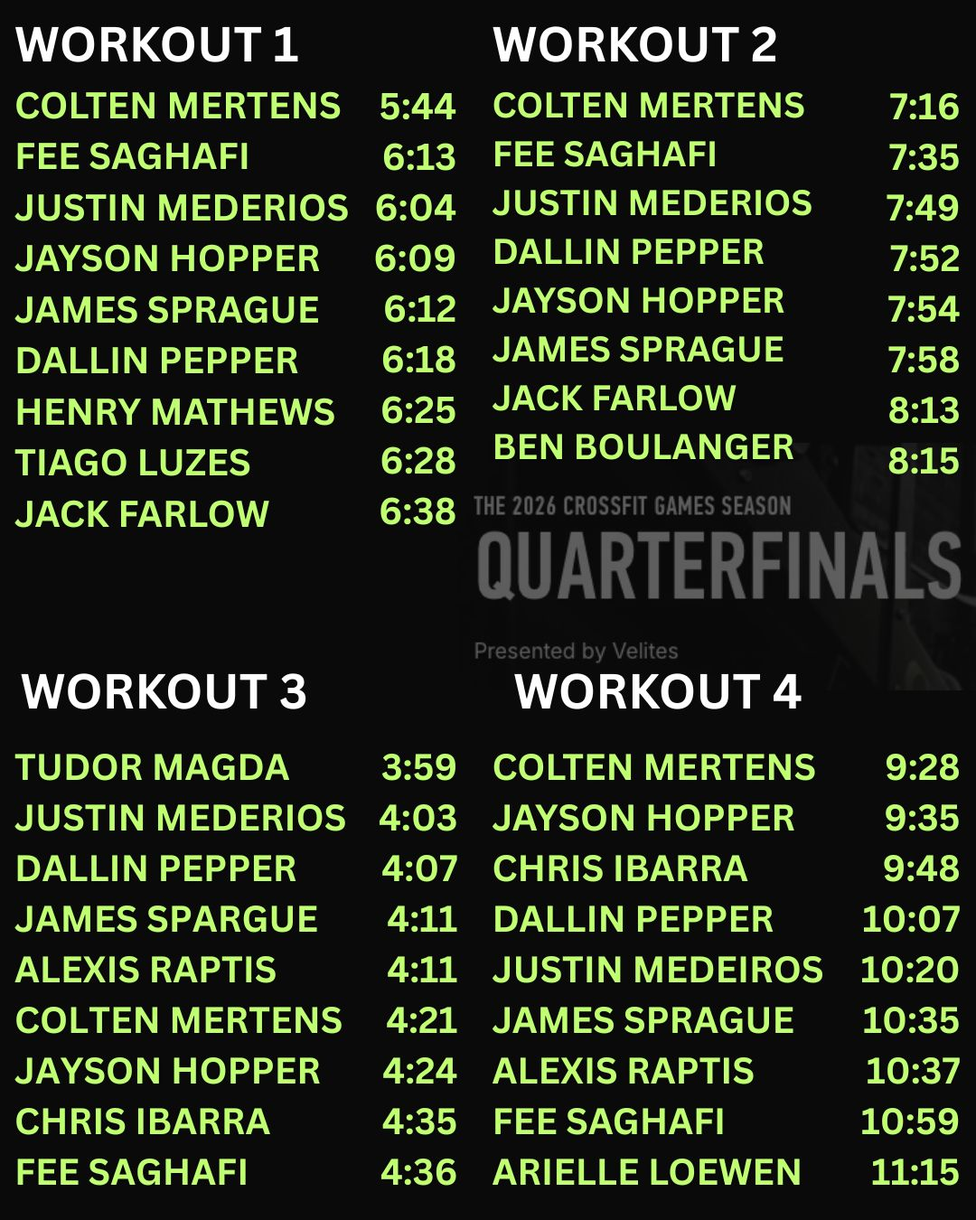
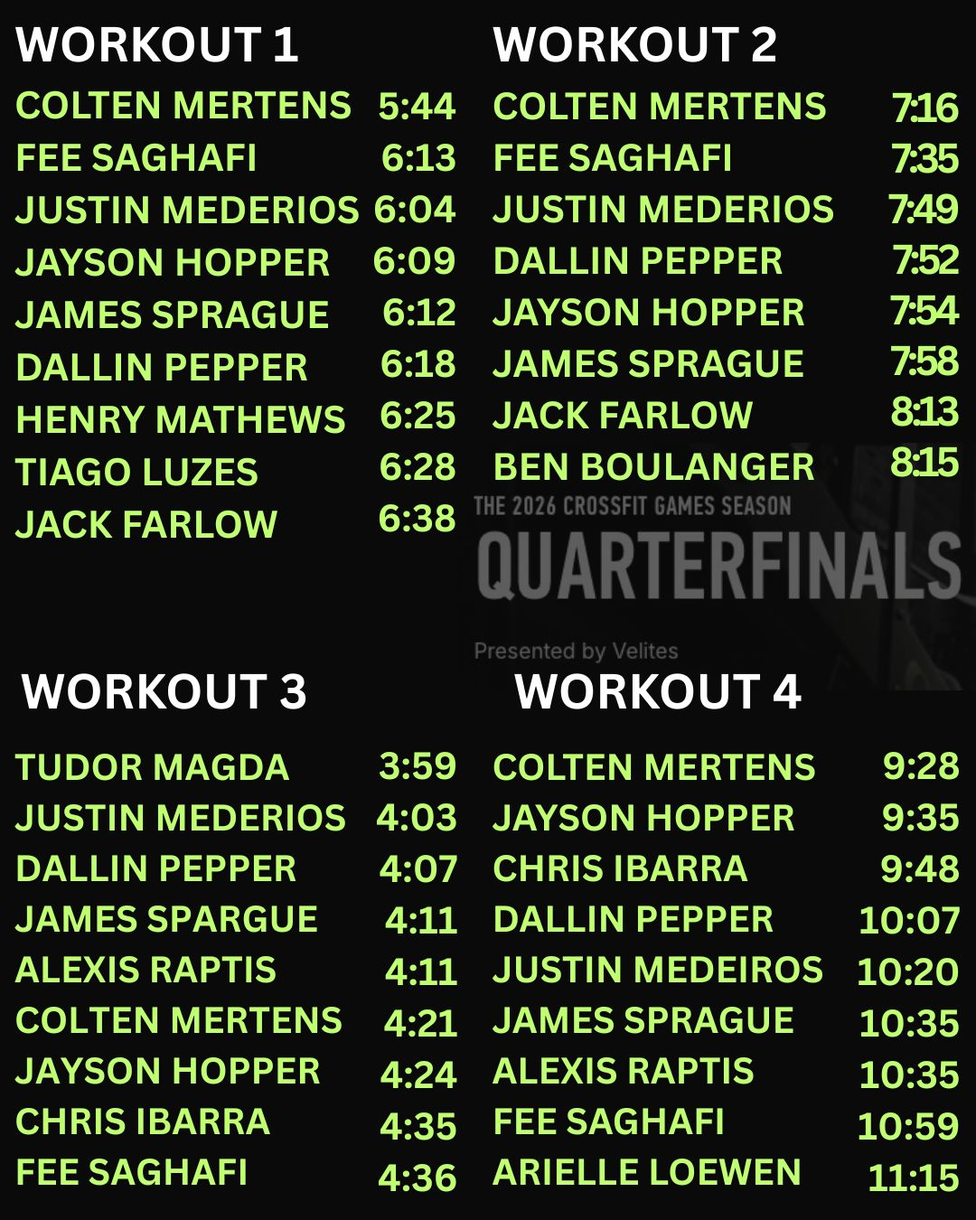
Add files via upload

diff --git a/assets/games.html b/assets/games.html
@@ -1,0 +1,339 @@
+<!-- Multi-page CF Network News -->
+<!DOCTYPE html>
+<html lang="en">
+<head>
+<meta charset="UTF-8">
+<meta name="viewport" content="width=device-width, initial-scale=1.0">
+<title>2026 CrossFit Games — CF Network News</title>
+<meta name="description" content="Everything about the 2026 CrossFit Games at SAP Center in San Jose — tickets, roadmap, and more.">
+<meta property="og:title" content="2026 Games — CF Network News">
+<meta property="og:description" content="Breaking CrossFit news, athlete gossip, Rogue Fitness updates, and competition schedules — all in one place.">
+<link rel="stylesheet" href="./base.css">
+<link rel="stylesheet" href="./style.css">
+</head>
+<body>
+
+<!-- ===== HEADER ===== -->
+<header class="header" id="header">
+  <div class="container header__inner">
+    <a href="./index.html" class="logo" aria-label="CF Network News home">
+      <svg class="logo__icon" viewBox="0 0 36 36" fill="none" xmlns="http://www.w3.org/2000/svg" aria-hidden="true">
+        <rect width="36" height="36" rx="6" fill="currentColor" fill-opacity="0.08"/>
+        <path d="M10 18L16 12L22 18L16 24Z" fill="var(--color-primary)" stroke="var(--color-primary)" stroke-width="1.5" stroke-linejoin="round"/>
+        <path d="M18 14L24 8L30 14" stroke="var(--color-primary)" stroke-width="2" stroke-linecap="round" stroke-linejoin="round" opacity="0.5"/>
+        <path d="M6 22L12 28L18 22" stroke="var(--color-primary)" stroke-width="2" stroke-linecap="round" stroke-linejoin="round" opacity="0.5"/>
+      </svg>
+      <div class="logo__text">CF NETWORK<span>NEWS</span></div>
+    </a>
+
+    <button class="theme-toggle" data-theme-toggle aria-label="Switch theme">
+      <svg width="20" height="20" viewBox="0 0 24 24" fill="none" stroke="currentColor" stroke-width="2"><path d="M21 12.79A9 9 0 1 1 11.21 3 7 7 0 0 0 21 12.79z"/></svg>
+    </button>
+  </div>
+</header>
+
+
+<!-- ===== TICKER ===== -->
+<div class="ticker" aria-hidden="true">
+  <div class="ticker__track">
+    <span class="ticker__item">CF NETWORK NEWS LIVE STREAMING IS DOWN FOR 7 DAYS </span>
+    <span class="ticker__item">GO TO THE SEVAN PODCAST FOR LIVE COVERAGE </span>
+    <span class="ticker__item">BOYS INTERRUPTED LIVE FOR WORKOUT 1 AT NOON CT</span>
+    <span class="ticker__item">CF NETWORK NEWS LIVE STREAMING IS DOWN FOR 7 DAYS </span>
+    <span class="ticker__item">GO TO THE SEVAN PODCAST FOR LIVE COVERAGE </span>
+    <span class="ticker__item">BOYS INTERRUPTED LIVE FOR WORKOUT 1 AT NOON CT</span>
+    </span>
+  </div>
+</div>
+
+<!-- ===== SECTION NAV ===== -->
+<nav class="section-nav" aria-label="Section navigation">
+  <div class="section-nav__track">
+    <a href="./news.html" class="section-nav__link">Top Stories</a>
+    <a href="./gossip.html" class="section-nav__link">Gossip</a>    <a href="./shows.html" class="section-nav__link">Podcasts/Shows</a>
+    <a href="./rankings.html" class="section-nav__link">Rankings</a>
+    <a href="./rogue.html" class="section-nav__link">Rogue</a>
+    <a href="./competitions.html" class="section-nav__link">Competitions</a>
+    <a href="./games.html" class="section-nav__link section-nav__link--active">2026 Games</a>
+    <a href="./message-board.html" class="section-nav__link">Message Board</a>
+    <a href="./advertise.html" class="section-nav__link">Advertise</a>
+    <a href="./index.html#subscribe" class="section-nav__link">Subscribe</a>
+  </div>
+</nav>
+
+<div style="padding:var(--space-4) 0 0;">
+  <div class="container">
+    <a href="./index.html" style="font-size:var(--text-sm);color:var(--color-text-muted);text-decoration:none;display:inline-flex;align-items:center;gap:var(--space-2);">
+      <svg width="16" height="16" viewBox="0 0 24 24" fill="none" stroke="currentColor" stroke-width="2"><path d="M19 12H5M12 19l-7-7 7-7"/></svg>
+      Back to Home
+    </a>
+  </div>
+</div>
+
+<!-- ===== 2026 GAMES ===== -->
+ <!-- ===== Quarterfinal times ===== -->
+<section style="text-align: center; padding: 40px 20px; background-color: #000; color: #fbfbf8;">
+  <h2 style="font-family: system-ui, -apple-system, BlinkMacSystemFont, 'Segoe UI', sans-serif;
+             font-weight: 800;
+             font-size: 1.8rem;
+             letter-spacing: 0.05em;
+             text-transform: uppercase;
+             margin-bottom: 20px;">
+    Quarterfinal Times <span style="font-style: italic;">*Unofficially*</span>
+  </h2>
+
+  <div style="max-width: 600px; margin: 0 auto;">
+    <img 
+      src="./assets/img-cfqtr.jpg" 
+      alt="CrossFit Quarterfinal leaderboard with unofficial times"
+      style="width: 100%; height: auto; border-radius: 8px; border: 2px solid #fdfd5b;"
+    >
+  </div>
+</section>
+
+<!-- ===== 2026 GAMES ===== -->
+<section class="section" id="games">
+  <div class="container">
+    <div class="section__header">
+      <div>
+        <div class="section__label">The Main Event</div>
+        <h2 class="section__title">2026 CrossFit Games</h2>
+      </div>
+      <a href="https://games.crossfit.com/finals/overview" target="_blank" rel="noopener noreferrer" class="section__link">Official Games Page &rarr;</a>
+    </div>
+
+    <div class="news-grid news-grid--2col fade-in">
+      <a href="https://games.crossfit.com/article/2026-crossfit-games-tickets" target="_blank" rel="noopener noreferrer" class="card">
+        <div class="card__image">
+          <img src="./assets/games.png" alt="CrossFit Games arena with competition equipment">
+          <span class="card__badge">20th Anniversary</span>
+        </div>
+        <div class="card__body">
+          <span class="card__meta">July 24-26, 2026</span>
+          <div class="card__image">
+            <img src="./assets/img-sap-center.jpg" alt="SAP Center San Jose aerial view at sunset">
+          </div>
+          <h3 class="card__title">Games Return to California — SAP Center, San Jose</h3>
+          <p class="card__excerpt">Celebrating 20 years of the CrossFit Games. The top 30 men and 30 women, plus the top 20 teams, will compete to be crowned Fittest on Earth. Masters, Teenage, and Adaptive divisions compete at the nearby Convention Center.</p>
+          <div class="card__footer">
+            <span class="card__read-more">Get Tickets &rarr;</span>
+          </div>
+        </div>
+      </a>
+
+      <div class="card" style="padding:var(--space-6);justify-content:center;gap:var(--space-4)">
+        <div class="section__label">Season Roadmap</div>
+        <h3 style="font-family:var(--font-display);font-size:var(--text-xl);text-transform:uppercase;letter-spacing:0.02em;">Road to the Games</h3>
+        <div class="timeline">
+          <div class="timeline__item">
+            <div class="timeline__dot timeline__dot--active"></div>
+            <div class="timeline__date">Feb 26 — Mar 16</div>
+            <div class="timeline__title">The Open</div>
+            <div class="timeline__desc">3 workouts. Everyone competes.</div>
+          </div>
+          <div class="timeline__item">
+            <div class="timeline__dot timeline__dot--upcoming"></div>
+            <div class="timeline__date">Mar 26 — 30</div>
+            <div class="timeline__title">Quarterfinals</div>
+            <div class="timeline__desc">Top 25% advance. Online.</div>
+          </div>
+          <div class="timeline__item">
+            <div class="timeline__dot timeline__dot--upcoming"></div>
+            <div class="timeline__date">Apr — Jun</div>
+            <div class="timeline__title">Semifinals</div>
+            <div class="timeline__desc">In-person + online. Global events.</div>
+          </div>
+          <div class="timeline__item">
+            <div class="timeline__dot timeline__dot--upcoming"></div>
+            <div class="timeline__date">Jul 24 — 26</div>
+            <div class="timeline__title">The CrossFit Games</div>
+            <div class="timeline__desc">SAP Center, San Jose, CA.</div>
+          </div>
+        </div>
+      </div>
+    </div>
+  </div>
+</section>
+
+<!-- ===== 2025 CROSSFIT GAMES ATHLETES ===== -->
+<section class="section athletes-section" id="athletes">
+  <div class="container">
+    <div class="section__header">
+      <div>
+        <div class="section__label" style="color:#3b82f6">2025 CrossFit Games &bull; Top 20 Finishers</div>
+        <h2 class="section__title">Athletes on Instagram</h2>
+      </div>
+      <a href="https://games.crossfit.com/leaderboard/finals/2025" target="_blank" rel="noopener noreferrer" class="section__link" style="color:#3b82f6">Full Leaderboard &rarr;</a>
+    </div>
+
+    <div class="athletes-grid">
+      <div class="athletes-column">
+        <h3 class="athletes-column__title">
+          <svg width="18" height="18" viewBox="0 0 24 24" fill="none" stroke="currentColor" stroke-width="2"><path d="M17 21v-2a4 4 0 0 0-4-4H5a4 4 0 0 0-4 4v2"/><circle cx="9" cy="7" r="4"/><path d="M23 21v-2a4 4 0 0 0-3-3.87"/><path d="M16 3.13a4 4 0 0 1 0 7.75"/></svg>
+          Men
+        </h3>
+        <div class="athletes-list">
+          <a href="https://www.instagram.com/jhopper3/" target="_blank" rel="noopener noreferrer" class="athlete-link"><span class="athlete-link__rank">1st</span><span class="athlete-link__name">Jayson Hopper</span><span class="athlete-link__handle">@jhopper3</span></a>
+          <a href="https://www.instagram.com/rickygarard/" target="_blank" rel="noopener noreferrer" class="athlete-link"><span class="athlete-link__rank">2nd</span><span class="athlete-link__name">Ricky Garard</span><span class="athlete-link__handle">@rickygarard</span></a>
+          <a href="https://www.instagram.com/spraguerrrr/" target="_blank" rel="noopener noreferrer" class="athlete-link"><span class="athlete-link__rank">3rd</span><span class="athlete-link__name">James Sprague</span><span class="athlete-link__handle">@spraguerrrr</span></a>
+          <a href="https://www.instagram.com/dallinpepper/" target="_blank" rel="noopener noreferrer" class="athlete-link"><span class="athlete-link__rank">4th</span><span class="athlete-link__name">Dallin Pepper</span><span class="athlete-link__handle">@dallinpepper</span></a>
+          <a href="https://www.instagram.com/austinhatfield_1/" target="_blank" rel="noopener noreferrer" class="athlete-link"><span class="athlete-link__rank">5th</span><span class="athlete-link__name">Austin Hatfield</span><span class="athlete-link__handle">@austinhatfield_1</span></a>
+          <a href="https://www.instagram.com/jaycrouch_/" target="_blank" rel="noopener noreferrer" class="athlete-link"><span class="athlete-link__rank">6th</span><span class="athlete-link__name">Jay Crouch</span><span class="athlete-link__handle">@jaycrouch_</span></a>
+          <a href="https://www.instagram.com/justinmedeiros34/" target="_blank" rel="noopener noreferrer" class="athlete-link"><span class="athlete-link__rank">7th</span><span class="athlete-link__name">Justin Medeiros</span><span class="athlete-link__handle">@justinmedeiros34</span></a>
+          <a href="https://www.instagram.com/adlerjeff/" target="_blank" rel="noopener noreferrer" class="athlete-link"><span class="athlete-link__rank">8th</span><span class="athlete-link__name">Jeffrey Adler</span><span class="athlete-link__handle">@adlerjeff</span></a>
+          <a href="https://www.instagram.com/roman_khrennikov/" target="_blank" rel="noopener noreferrer" class="athlete-link"><span class="athlete-link__rank">9th</span><span class="athlete-link__name">Roman Khrennikov</span><span class="athlete-link__handle">@roman_khrennikov</span></a>
+          <a href="https://www.instagram.com/tmagda1/" target="_blank" rel="noopener noreferrer" class="athlete-link"><span class="athlete-link__rank">10th</span><span class="athlete-link__name">Tudor Magda</span><span class="athlete-link__handle">@tmagda1</span></a>
+          <a href="https://www.instagram.com/harrylightfoot_/" target="_blank" rel="noopener noreferrer" class="athlete-link"><span class="athlete-link__rank">11th</span><span class="athlete-link__name">Harry Lightfoot</span><span class="athlete-link__handle">@harrylightfoot_</span></a>
+          <a href="https://www.instagram.com/colten_mertens/" target="_blank" rel="noopener noreferrer" class="athlete-link"><span class="athlete-link__rank">12th</span><span class="athlete-link__name">Colten Mertens</span><span class="athlete-link__handle">@colten_mertens</span></a>
+          <a href="https://www.instagram.com/chrisibarra5/" target="_blank" rel="noopener noreferrer" class="athlete-link"><span class="athlete-link__rank">13th</span><span class="athlete-link__name">Chris Ibarra</span><span class="athlete-link__handle">@chrisibarra5</span></a>
+          <a href="https://www.instagram.com/kalyancf/" target="_blank" rel="noopener noreferrer" class="athlete-link"><span class="athlete-link__rank">14th</span><span class="athlete-link__name">Kalyan Souza</span><span class="athlete-link__handle">@kalyancf</span></a>
+          <a href="https://www.instagram.com/tyjenkins75/" target="_blank" rel="noopener noreferrer" class="athlete-link"><span class="athlete-link__rank">15th</span><span class="athlete-link__name">Ty Jenkins</span><span class="athlete-link__handle">@tyjenkins75</span></a>
+          <a href="https://www.instagram.com/calum_clements/" target="_blank" rel="noopener noreferrer" class="athlete-link"><span class="athlete-link__rank">16th</span><span class="athlete-link__name">Calum Clements</span><span class="athlete-link__handle">@calum_clements</span></a>
+          <a href="https://www.instagram.com/colinbosshard/" target="_blank" rel="noopener noreferrer" class="athlete-link"><span class="athlete-link__rank">17th</span><span class="athlete-link__name">Colin Bosshard</span><span class="athlete-link__handle">@colinbosshard</span></a>
+          <a href="https://www.instagram.com/jackrozema7/" target="_blank" rel="noopener noreferrer" class="athlete-link"><span class="athlete-link__rank">18th</span><span class="athlete-link__name">Jack Rozema</span><span class="athlete-link__handle">@jackrozema7</span></a>
+          <a href="https://www.instagram.com/moritz_fiebig/" target="_blank" rel="noopener noreferrer" class="athlete-link"><span class="athlete-link__rank">19th</span><span class="athlete-link__name">Moritz Fiebig</span><span class="athlete-link__handle">@moritz_fiebig</span></a>
+          <a href="https://www.instagram.com/coachnmathew/" target="_blank" rel="noopener noreferrer" class="athlete-link"><span class="athlete-link__rank">20th</span><span class="athlete-link__name">Nick Mathew</span><span class="athlete-link__handle">@coachnmathew</span></a>
+        </div>
+      </div>
+
+      <div class="athletes-column">
+        <h3 class="athletes-column__title">
+          <svg width="18" height="18" viewBox="0 0 24 24" fill="none" stroke="currentColor" stroke-width="2"><path d="M17 21v-2a4 4 0 0 0-4-4H5a4 4 0 0 0-4 4v2"/><circle cx="9" cy="7" r="4"/><path d="M23 21v-2a4 4 0 0 0-3-3.87"/><path d="M16 3.13a4 4 0 0 1 0 7.75"/></svg>
+          Women
+        </h3>
+        <div class="athletes-list">
+          <a href="https://www.instagram.com/tiaclair1/" target="_blank" rel="noopener noreferrer" class="athlete-link"><span class="athlete-link__rank">1st</span><span class="athlete-link__name">Tia-Clair Toomey</span><span class="athlete-link__handle">@tiaclair1</span></a>
+          <a href="https://www.instagram.com/lucycampbell5/" target="_blank" rel="noopener noreferrer" class="athlete-link"><span class="athlete-link__rank">2nd</span><span class="athlete-link__name">Lucy Campbell</span><span class="athlete-link__handle">@lucycampbell5</span></a>
+          <a href="https://www.instagram.com/oliviakerstetter/" target="_blank" rel="noopener noreferrer" class="athlete-link"><span class="athlete-link__rank">3rd</span><span class="athlete-link__name">Olivia Kerstetter</span><span class="athlete-link__handle">@oliviakerstetter</span></a>
+          <a href="https://www.instagram.com/daniellebrandon7/" target="_blank" rel="noopener noreferrer" class="athlete-link"><span class="athlete-link__rank">4th</span><span class="athlete-link__name">Danielle Brandon</span><span class="athlete-link__handle">@daniellebrandon7</span></a>
+          <a href="https://www.instagram.com/arielleloewen/" target="_blank" rel="noopener noreferrer" class="athlete-link"><span class="athlete-link__rank">5th</span><span class="athlete-link__name">Arielle Loewen</span><span class="athlete-link__handle">@arielleloewen</span></a>
+          <a href="https://www.instagram.com/maddiesturt/" target="_blank" rel="noopener noreferrer" class="athlete-link"><span class="athlete-link__rank">6th</span><span class="athlete-link__name">Madeline Sturt</span><span class="athlete-link__handle">@maddiesturt</span></a>
+          <a href="https://www.instagram.com/mirjam_v.r/" target="_blank" rel="noopener noreferrer" class="athlete-link"><span class="athlete-link__rank">7th</span><span class="athlete-link__name">Mirjam von Rohr</span><span class="athlete-link__handle">@mirjam_v.r</span></a>
+          <a href="https://www.instagram.com/aimee_cringle/" target="_blank" rel="noopener noreferrer" class="athlete-link"><span class="athlete-link__rank">8th</span><span class="athlete-link__name">Aimee Cringle</span><span class="athlete-link__handle">@aimee_cringle</span></a>
+          <a href="https://www.instagram.com/anikhagreer/" target="_blank" rel="noopener noreferrer" class="athlete-link"><span class="athlete-link__rank">9th</span><span class="athlete-link__name">Anikha Greer</span><span class="athlete-link__handle">@anikhagreer</span></a>
+          <a href="https://www.instagram.com/alexis_raptis/" target="_blank" rel="noopener noreferrer" class="athlete-link"><span class="athlete-link__rank">10th</span><span class="athlete-link__name">Alexis Raptis</span><span class="athlete-link__handle">@alexis_raptis</span></a>
+          <a href="https://www.instagram.com/lucy.mcgonigle/" target="_blank" rel="noopener noreferrer" class="athlete-link"><span class="athlete-link__rank">11th</span><span class="athlete-link__name">Lucy McGonigle</span><span class="athlete-link__handle">@lucy.mcgonigle</span></a>
+          <a href="https://www.instagram.com/abbiedomit/" target="_blank" rel="noopener noreferrer" class="athlete-link"><span class="athlete-link__rank">12th</span><span class="athlete-link__name">Abigail Domit</span><span class="athlete-link__handle">@abbiedomit</span></a>
+          <a href="https://www.instagram.com/fish_lydia/" target="_blank" rel="noopener noreferrer" class="athlete-link"><span class="athlete-link__rank">13th</span><span class="athlete-link__name">Lydia Fish</span><span class="athlete-link__handle">@fish_lydia</span></a>
+          <a href="https://www.instagram.com/claudia_glk/" target="_blank" rel="noopener noreferrer" class="athlete-link"><span class="athlete-link__rank">14th</span><span class="athlete-link__name">Claudia Gluck</span><span class="athlete-link__handle">@claudia_glk</span></a>
+          <a href="https://www.instagram.com/graciewaltonn_/" target="_blank" rel="noopener noreferrer" class="athlete-link"><span class="athlete-link__rank">15th</span><span class="athlete-link__name">Grace Walton</span><span class="athlete-link__handle">@graciewaltonn_</span></a>
+          <a href="https://www.instagram.com/brookewellss/" target="_blank" rel="noopener noreferrer" class="athlete-link"><span class="athlete-link__rank">16th</span><span class="athlete-link__name">Brooke Wells</span><span class="athlete-link__handle">@brookewellss</span></a>
+          <a href="https://www.instagram.com/fee.saghafi/" target="_blank" rel="noopener noreferrer" class="athlete-link"><span class="athlete-link__rank">17th</span><span class="athlete-link__name">Fee Saghafi</span><span class="athlete-link__handle">@fee.saghafi</span></a>
+          <a href="https://www.instagram.com/lexi_neely_/" target="_blank" rel="noopener noreferrer" class="athlete-link"><span class="athlete-link__rank">18th</span><span class="athlete-link__name">Lexi Neely</span><span class="athlete-link__handle">@lexi_neely_</span></a>
+          <a href="https://www.instagram.com/haleyadamssss/" target="_blank" rel="noopener noreferrer" class="athlete-link"><span class="athlete-link__rank">19th</span><span class="athlete-link__name">Haley Adams</span><span class="athlete-link__handle">@haleyadamssss</span></a>
+          <a href="https://www.instagram.com/jennifermuir99/" target="_blank" rel="noopener noreferrer" class="athlete-link"><span class="athlete-link__rank">20th</span><span class="athlete-link__name">Jennifer Muir</span><span class="athlete-link__handle">@jennifermuir99</span></a>
+        </div>
+      </div>
+    </div>
+  </div>
+</section>
+
+<hr class="section-divider">
+
+<!-- ===== NEWSLETTER / ALERTS SIGNUP ===== -->
+<section class="section newsletter" id="subscribe">
+  <div class="container">
+    <div class="newsletter__inner">
+      <div>
+        <div class="newsletter__label">Stay in the Loop</div>
+        <h2 class="newsletter__title">Get Breaking News &amp; Alerts</h2>
+        <p class="newsletter__desc">Sign up to receive the CF Network News newsletter and breaking news alerts. Be the first to know when major stories drop — CEO changes, Open workouts, athlete injuries, and everything in between.</p>
+      </div>
+      <form class="newsletter__form" id="newsletterForm" novalidate>
+        <div class="newsletter__row">
+          <div class="newsletter__field">
+            <label for="nl-email">Email Address</label>
+            <input type="email" id="nl-email" name="EMAIL" class="newsletter__input" placeholder="you@example.com" required>
+          </div>
+
+        </div>
+        <!-- Anti-bot honeypot field — do not remove -->
+        <div style="position:absolute;left:-5000px" aria-hidden="true">
+          <input type="text" name="b_d40058698a0dbd5c27f2fa54c_8bda743e10" tabindex="-1" value="">
+        </div>
+        <button type="submit" class="newsletter__btn">Subscribe</button>
+        <div class="newsletter__error" id="newsletterError" style="display:none;color:var(--color-text-muted);margin-top:0.75rem;font-size:var(--text-sm);"></div>
+      </form>
+      <div class="newsletter__success" id="newsletterSuccess">Almost there! Check your inbox and click the confirmation link to complete your subscription.</div>
+    </div>
+  </div>
+</section>
+
+
+<!-- ===== FOOTER ===== -->
+<footer class="footer">
+  <div class="container">
+    <div class="footer__inner">
+      <div>
+        <a href="./index.html" class="logo" aria-label="CF Network News home" style="margin-bottom:var(--space-2)">
+          <svg class="logo__icon" viewBox="0 0 36 36" fill="none" xmlns="http://www.w3.org/2000/svg" aria-hidden="true">
+            <rect width="36" height="36" rx="6" fill="currentColor" fill-opacity="0.08"/>
+            <path d="M10 18L16 12L22 18L16 24Z" fill="var(--color-primary)" stroke="var(--color-primary)" stroke-width="1.5" stroke-linejoin="round"/>
+            <path d="M18 14L24 8L30 14" stroke="var(--color-primary)" stroke-width="2" stroke-linecap="round" stroke-linejoin="round" opacity="0.5"/>
+            <path d="M6 22L12 28L18 22" stroke="var(--color-primary)" stroke-width="2" stroke-linecap="round" stroke-linejoin="round" opacity="0.5"/>
+          </svg>
+          <div class="logo__text">CF NETWORK<span>NEWS</span></div>
+        </a>
+        <p class="footer__brand-text">Your daily source for CrossFit news, athlete updates, competition schedules, and community insights. Not affiliated with CrossFit LLC.</p>
+      </div>
+      <div>
+        <h4 class="footer__heading">Sections</h4>
+        <ul class="footer__links" role="list">
+          <li><a href="./news.html">Top Stories</a></li>
+          <li><a href="./gossip.html">Gossip &amp; Drama</a></li>
+          <li></li>
+          <li><a href="./shows.html">Podcasts/Shows</a></li>
+          <li><a href="./rankings.html">Channel Rankings</a></li>
+          <li><a href="./rogue.html">Rogue Fitness</a></li>
+          <li><a href="./competitions.html">Competitions</a></li>
+          <li><a href="https://competitioncorner.net/events/19193/schedule" target="_blank" rel="noopener noreferrer">WZA Schedule</a></li>
+          <li><a href="./message-board.html">Message Board</a></li>
+        </ul>
+      </div>
+      <div>
+        <h4 class="footer__heading">Resources</h4>
+        <ul class="footer__links" role="list">
+          <li><a href="https://games.crossfit.com" target="_blank" rel="noopener noreferrer">CrossFit Games</a></li>
+          <li><a href="https://morningchalkup.barbend.com" target="_blank" rel="noopener noreferrer">Morning Chalk Up</a></li>
+          <li><a href="https://thebarbellspin.com" target="_blank" rel="noopener noreferrer">The Barbell Spin</a></li>
+          <li><a href="https://www.roguefitness.com" target="_blank" rel="noopener noreferrer">Rogue Fitness</a></li>
+        </ul>
+      </div>
+      <div>
+        <h4 class="footer__heading">Upcoming</h4>
+        <ul class="footer__links" role="list">
+          <li><a href="https://wodapalooza.com" target="_blank" rel="noopener noreferrer">Wodapalooza</a></li>
+          <li><a href="https://games.crossfit.com/finals/overview" target="_blank" rel="noopener noreferrer">2026 Games</a></li>
+          <li><a href="https://www.roguefitness.com/invitational" target="_blank" rel="noopener noreferrer">Rogue Invitational</a></li>
+          <li><a href="https://games.crossfit.com/competitions" target="_blank" rel="noopener noreferrer">Licensed Events</a></li>
+        </ul>
+      </div>
+    </div>
+
+    <div class="footer__bottom">
+      <p class="footer__copy">&copy; 2026 CF Network News. Independent fan site. Not affiliated with CrossFit LLC.</p>
+    </div>
+  </div>
+</footer>
+
+<!-- ===== MOBILE FLOATING NAV ===== -->
+<div class="fab-nav" id="fabNav">
+  <div class="fab-nav__menu" id="fabMenu">
+    <a href="./news.html" class="fab-nav__item">Top Stories</a>
+    <a href="./gossip.html" class="fab-nav__item">Gossip</a>    <a href="./shows.html" class="fab-nav__item">Podcasts/Shows</a>
+    <a href="./rankings.html" class="fab-nav__item">Rankings</a>
+    <a href="./rogue.html" class="fab-nav__item">Rogue</a>
+    <a href="./competitions.html" class="fab-nav__item">Competitions</a>
+    <a href="./games.html" class="fab-nav__item">2026 Games</a>
+    <a href="./message-board.html" class="fab-nav__item">Message Board</a>
+    <a href="./index.html#subscribe" class="fab-nav__item">Subscribe</a>
+  </div>
+  <button class="fab-nav__btn" id="fabToggle" aria-label="Open navigation menu">
+    <svg class="fab-nav__icon-menu" width="22" height="22" viewBox="0 0 24 24" fill="none" stroke="currentColor" stroke-width="2.5" stroke-linecap="round"><path d="M3 12h18M3 6h18M3 18h18"/></svg>
+    <svg class="fab-nav__icon-close" width="22" height="22" viewBox="0 0 24 24" fill="none" stroke="currentColor" stroke-width="2.5" stroke-linecap="round"><path d="M18 6L6 18M6 6l12 12"/></svg>
+  </button>
+</div>
+
+<script src="./app.js" defer></script>
+</body>
+</html>
